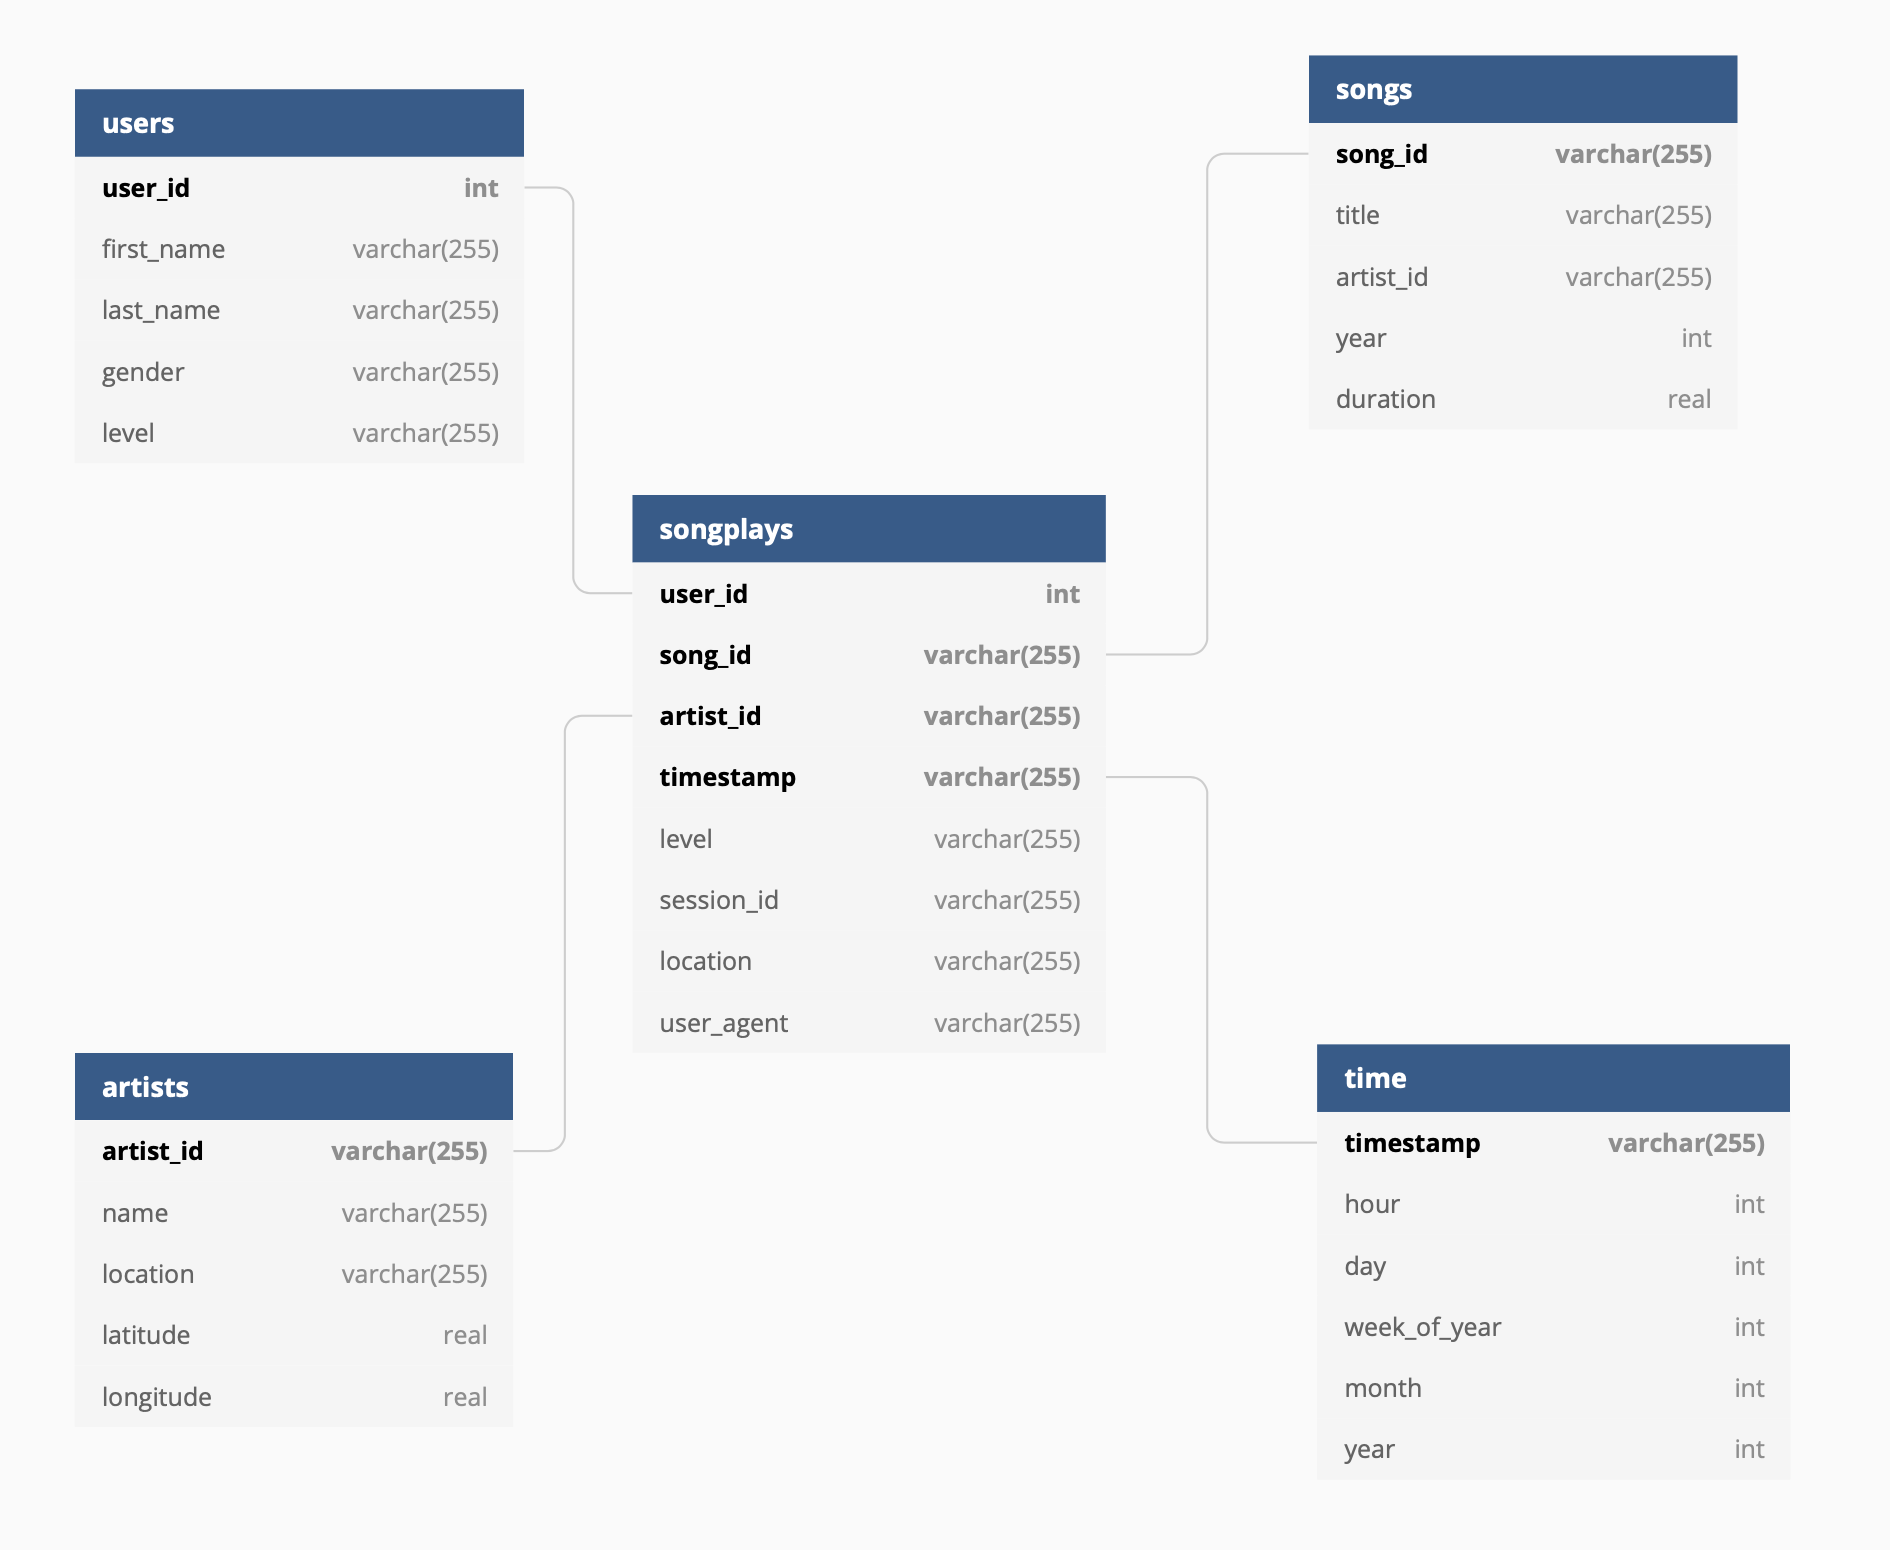
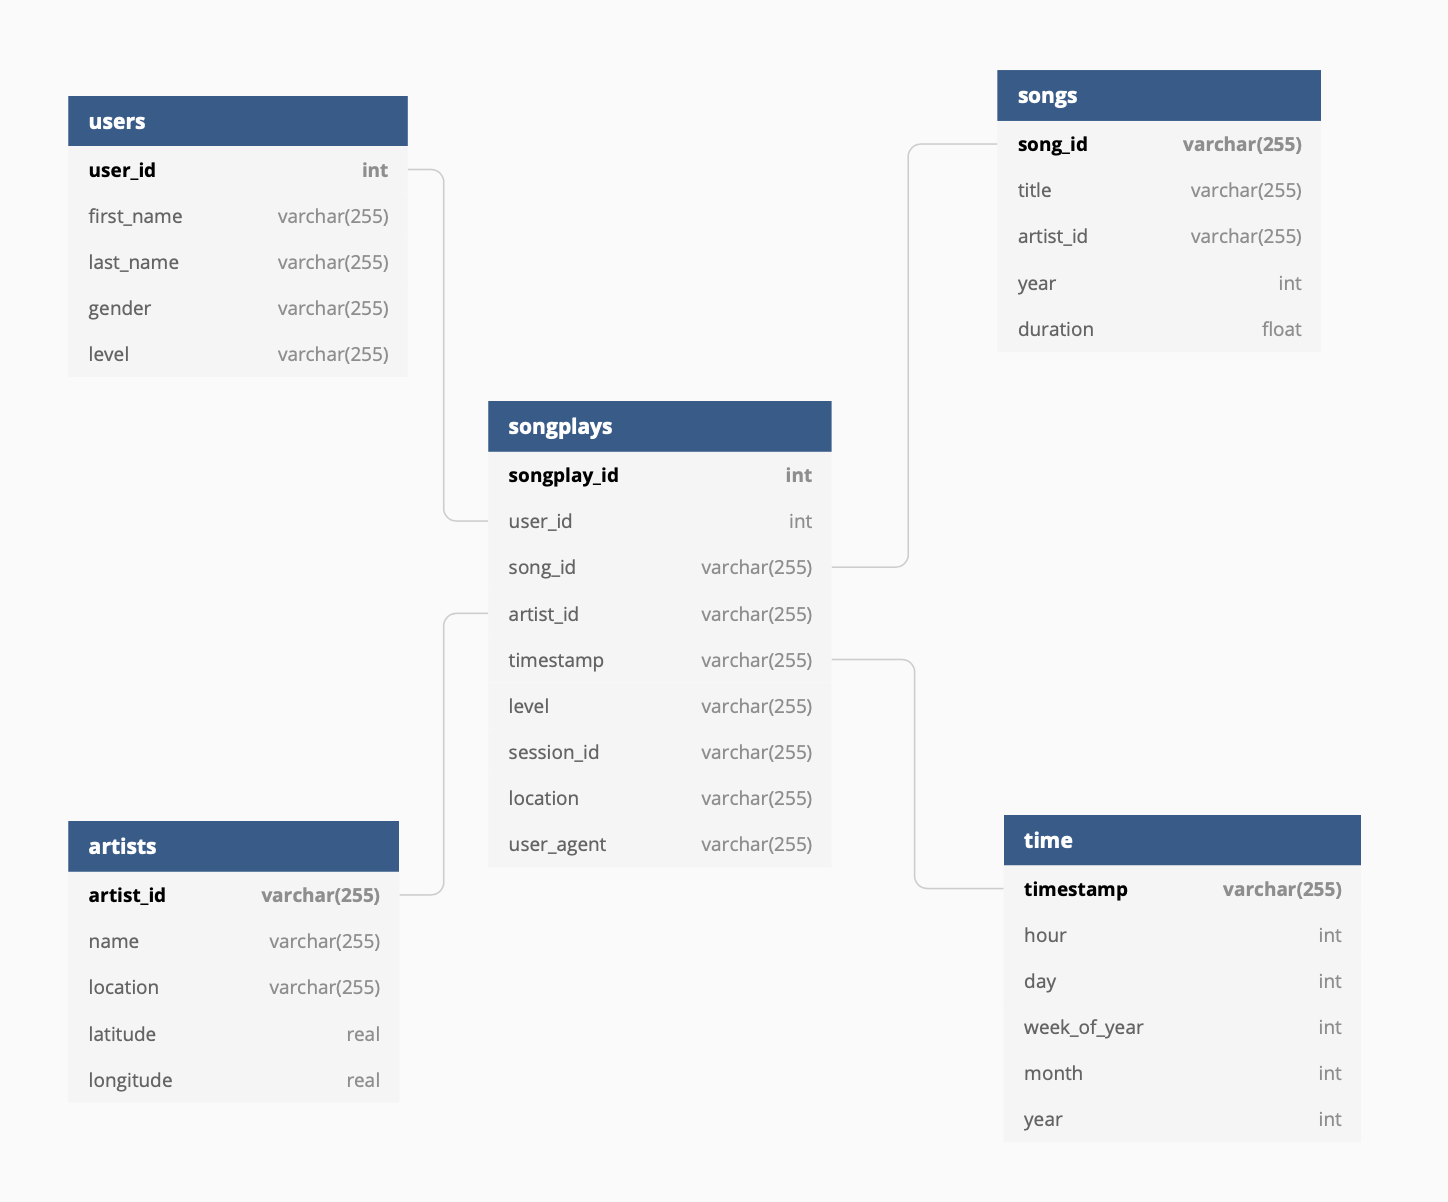
Updates the solution
Changes:

- Adds songplay_id as serial pk to the songplays table
- Remove composed pk from the songplays table
- Add not null constraint on user_id and timestamp in the songplays table

diff --git a/sql_queries.py b/sql_queries.py
@@ -14,15 +14,15 @@ songplay_table_create = (
     """
     CREATE TABLE IF NOT EXISTS songplays \
         (  
-            timestamp VARCHAR(255), 
-            user_id INT, 
+            songplay_id SERIAL PRIMARY KEY,
+            timestamp VARCHAR(255) NOT NULL, 
+            user_id INT NOT NULL, 
             level VARCHAR(255), 
             song_id VARCHAR(255), 
             artist_id VARCHAR(255), 
             session_id VARCHAR(255), 
             location VARCHAR(255), 
-            user_agent VARCHAR(255),
-            PRIMARY KEY (user_id, timestamp, session_id)
+            user_agent VARCHAR(255)
         )
     """
 )
@@ -112,7 +112,9 @@ user_table_insert = (
         level
     )
     VALUES (%s, %s, %s, %s, %s)
-    ON CONFLICT(user_id) DO NOTHING
+    ON CONFLICT(user_id)
+    DO 
+    UPDATE SET level=EXCLUDED.level
     """
 )
 
@@ -125,7 +127,9 @@ song_table_insert = (
         year, 
         duration
     ) VALUES (%s, %s, %s, %s, %s)
-    ON CONFLICT(song_id) DO NOTHING
+    ON CONFLICT(song_id) 
+    DO 
+    NOTHING
     """
 )
 
@@ -138,7 +142,9 @@ artist_table_insert =  (
         latitude, 
         longitude
     ) VALUES (%s, %s, %s, %s, %s)
-    ON CONFLICT(artist_id) DO NOTHING
+    ON CONFLICT(artist_id) 
+    DO 
+    NOTHING
     """
 )
 
@@ -152,7 +158,9 @@ time_table_insert = (
         month, 
         year
     ) VALUES (%s, %s, %s, %s, %s, %s)
-    ON CONFLICT(timestamp) DO NOTHING
+    ON CONFLICT(timestamp) 
+    DO 
+    NOTHING
     """
 )
 
